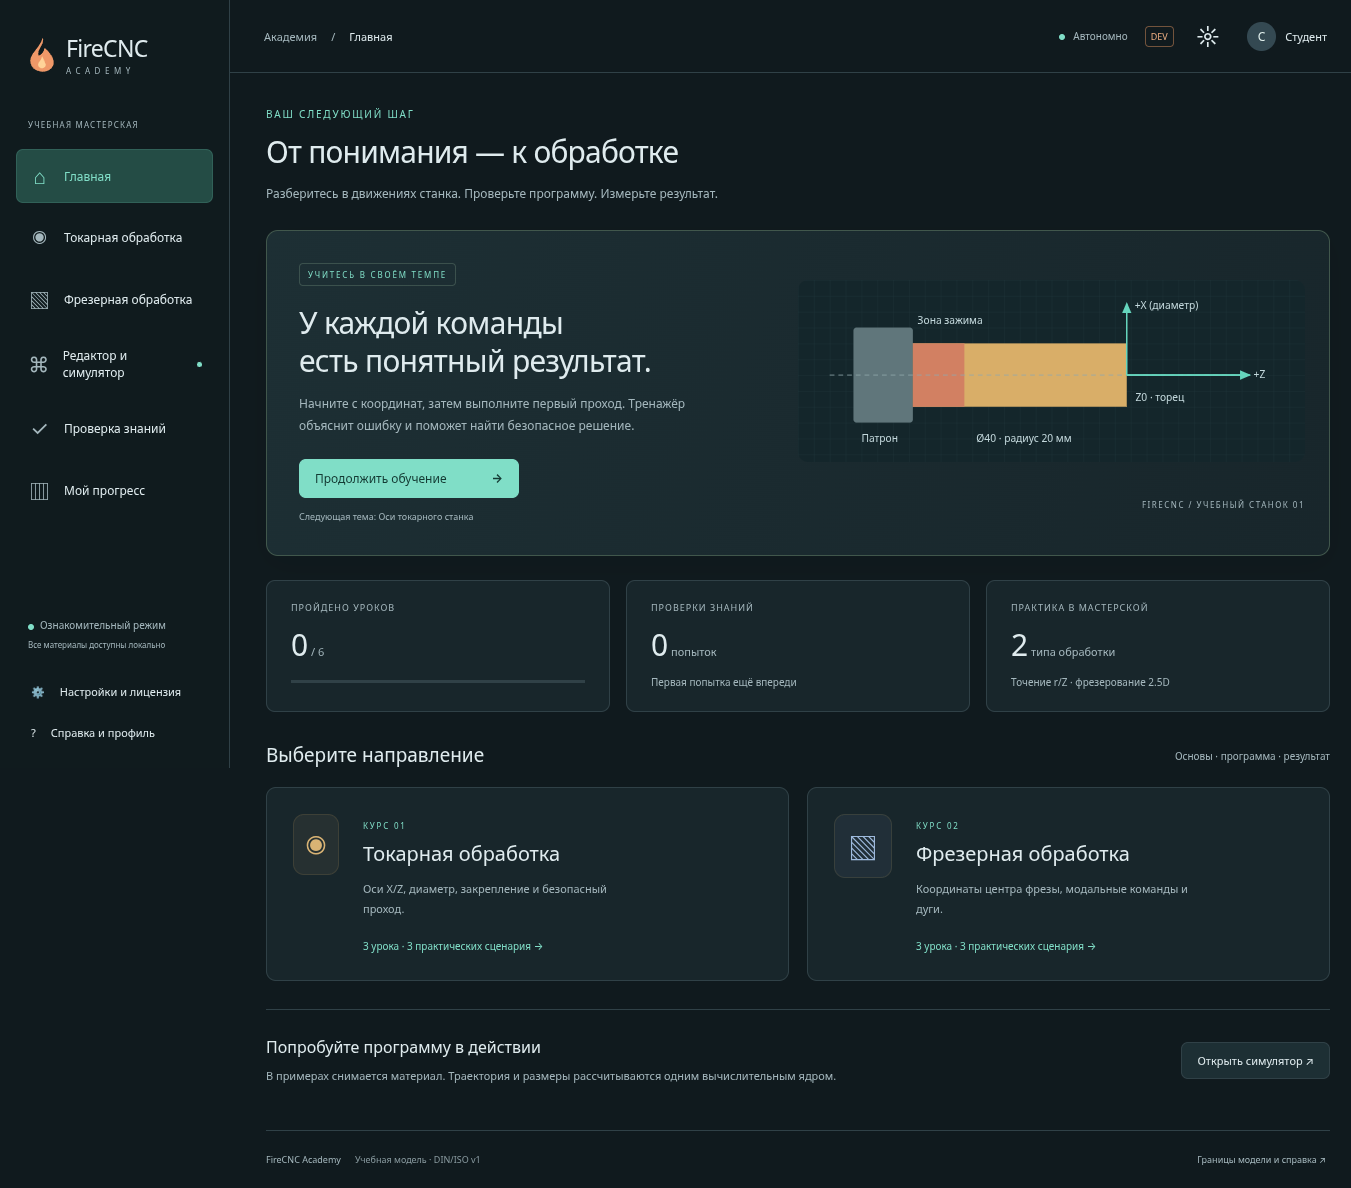
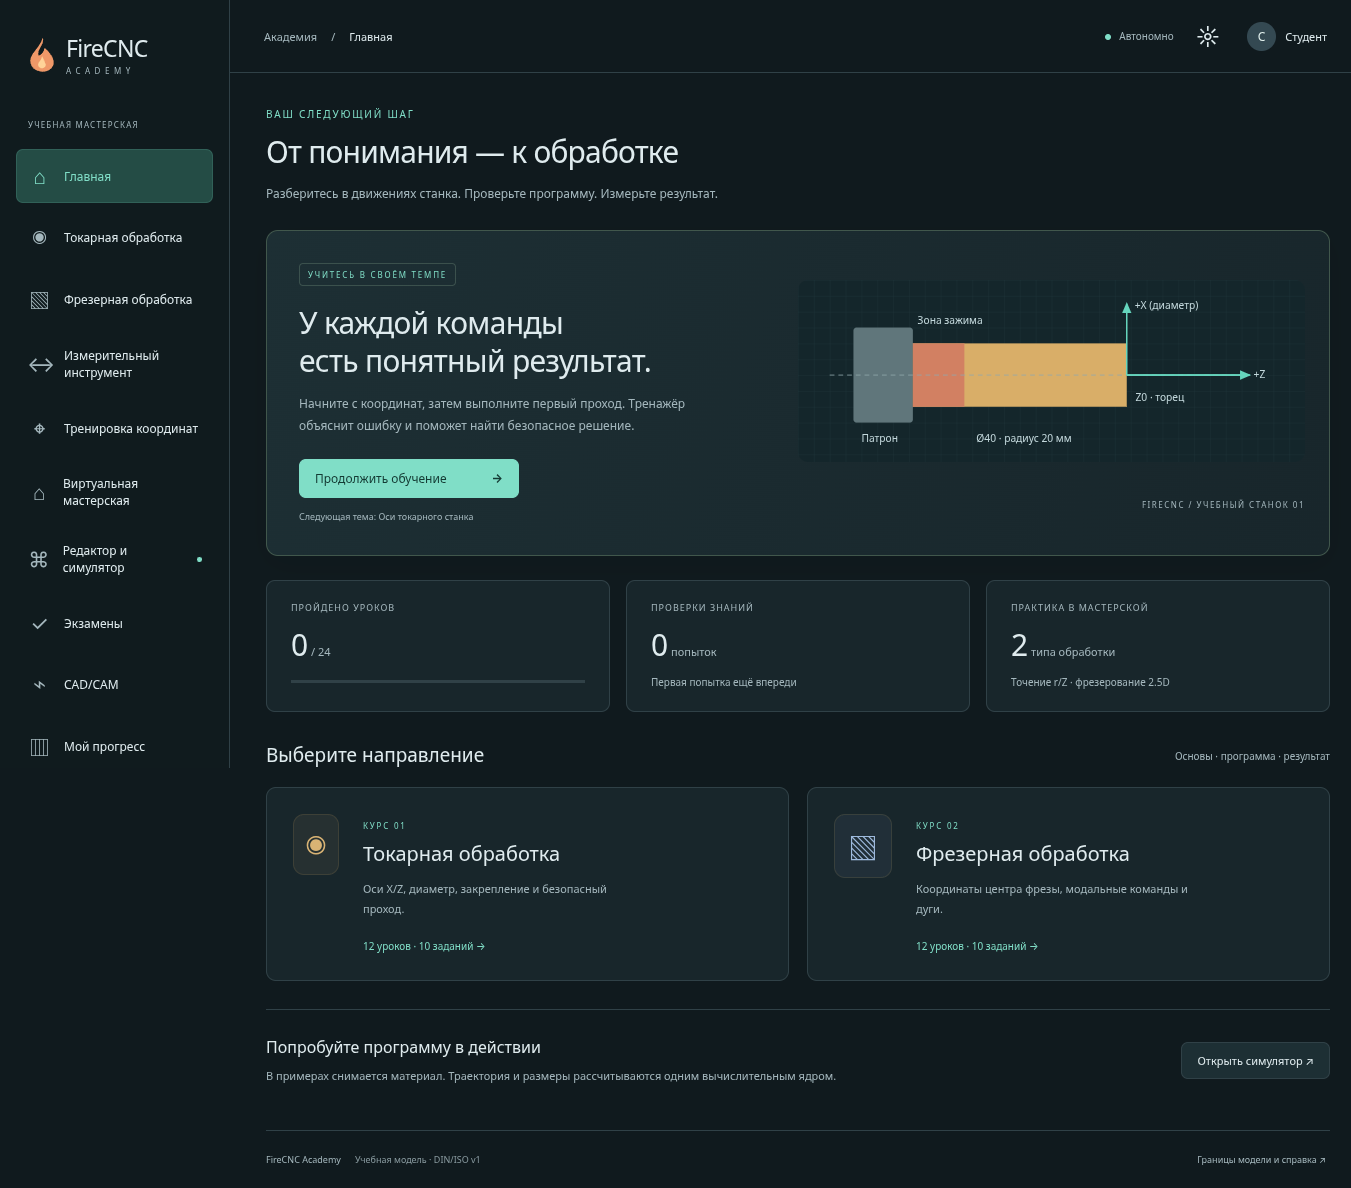
Record 0.3.0 platform acceptance and preserved Omarchy upgrade

diff --git a/ACCEPTANCE.md b/ACCEPTANCE.md
@@ -1,0 +1,24 @@
+# Приёмка 0.3.0
+
+15 ноября 2026. Таблица относится к работающему учебному профилю FireCNC DIN v1, а не к промышленной эмуляции. Полный объём A–F не объявляется выполненным: ручная Windows 11/DPI и расширения CAD/CAM остаются открытыми.
+
+| № из раздела 23 задания | Состояние | Подтверждение / предел |
+|---|---|---|
+| 1. Установка и запуск на заявленной платформе | Частично | Omarchy 0.3.0-1 установлен и запущен нативно в Wayland. Windows Server 2025 прошёл установщик/переустановку/удаление/portable в текущем CI; ручной Windows 11 пока нет. |
+| 2. Урок → тест → перезапуск → прогресс | Проверено | Полный Electron E2E; после настоящего обновления сохранены три отметки, контрольная попытка и экзамен пользователя. |
+| 3. Выпуск лицензии и открытие модулей | Проверено | Owner CLI issue/verify, импорт рабочим release с открытым ключом владельца, все семь модулей и автономный CAM в отдельном временном профиле. |
+| 4. Отказ подделке, отсутствие секрета в клиенте | Проверено | Ed25519/строгая схема, испорченный payload отклонён без замены лицензии. Проверка содержимого ASAR и публикационного списка. |
+| 5. Токарный материал и размер | Проверено | Реальный r/Z-съём, Ø30 на Z−15; аналитические цилиндр/кольцо/канавка и вся целевая форма. |
+| 6. Фрезерный материал | Проверено | Поле высот, глубина 3 мм, паз/карман/плоскость/контур; независимые площадь/объём и вся целевая форма. |
+| 7. Опасный сценарий | Проверено | Патрон/тиски/держатель/быстрый ход/шпиндель/направление/пределы; атомарный откат кадра с объяснением строки. Дискретная проверка имеет заявленный предел. |
+| 8. Воспроизводимый экзамен | Проверено | Восемь типов, снимок вопроса/порядка/ответа, seed, таймер, перезапуск, разбор и PDF после завершения. |
+| 9. Свой пакет преподавателя | Проверено | Пароль scrypt, вопрос/тест/геометрическое задание, экспорт/импорт, пересчёт примера, транзакционный отказ повреждению/конфликту ID. |
+| 10. Серверный ключ и лимит мест | Проверено | Настоящие HTTP-запросы: Lab, одно место при конкуренции, идемпотентность, lease, renew/revoke/deactivate/reset. Отзыв действует на продление, не сокращает старый автономный срок. |
+| 11. Базовый CAD/CAM и независимый эталон | Проверено в заявленных пределах | Четыре операции; общий интерпретатор/материал плюс независимые цель/формула объёма. Одна операция и стандартная заготовка; произвольные криволинейные CAM-профили и несколько операций ещё не готовы. |
+| 12. Автономная работа | Проверено | Electron E2E и настоящий release без сети; локальные assets/шрифты/Workers, действующие offline/lease не требуют сервера. |
+| 13. Данные при обновлении и резервирование | Проверено на Linux и Windows Server | SQLite Backup API, миграции v0→v6, восстановление с защитной копией, повреждённый импорт без потери; настоящее Omarchy-обновление сохраняет ID/лицензию/профили/все счётчики. |
+| 14. Явная граница профилей | Проверено | CNC_PROFILE.md и SIMULATION_LIMITS.md, справка в UI; неизвестный G/M останавливает кадр, промышленные профили не показываются готовыми. |
+
+Выпуск [v0.3.0](https://github.com/Hunt3rSmile/firecnc-academy/releases/tag/v0.3.0), проверенный код 62a35c6: [успешный Windows/Linux CI 43696992754](https://github.com/Hunt3rSmile/firecnc-academy/actions/runs/43696992754). На каждой платформе — 189 unit и 15 Electron E2E; пакетные сценарии также прошли.
+
+Точные команды, результаты CI, замеры и ещё не выполненные испытания — TESTING.md. Дальнейшая задача и ограничения — STATUS.md/ROADMAP.md. Локальный экзамен не заявляется защищённой серверной аттестацией.

diff --git a/README.md b/README.md
@@ -6,7 +6,9 @@
 
 Автономное настольное приложение для изучения ЧПУ на русском языке. Electron + React + TypeScript; вычислительное ядро работает отдельно от интерфейса. Собственный учебный DIN/ISO, без управления реальным оборудованием.
 
-**Рабочая версия 0.3.0; полный объём A–F ещё проходит приёмку.** Есть 24 собственных урока, 120 разных вопросов, 20 практических заданий с независимой оценкой полной геометрии, G90/G91 по точкам, измерительные приборы, воспроизводимые экзамены с таймером/разбором/PDF, интерактивная наладка и вращение заготовки/фрезы. Офлайн-лицензии, режим преподавателя, учебные пакеты, отдельный сервер коротких ключей, CAD/CAM четырёх операций и мастер восстановления БД работают. Ограничения и оставшаяся приёмка — [STATUS.md](STATUS.md). Последний опубликованный релиз может отставать от рабочей ветки.
+**Рабочая версия 0.3.0; полный объём A–F ещё проходит приёмку.** Есть 24 собственных урока, 120 разных вопросов, 20 практических заданий с независимой оценкой полной геометрии, G90/G91 по точкам, измерительные приборы, воспроизводимые экзамены с таймером/разбором/PDF, интерактивная наладка и вращение заготовки/фрезы. Офлайн-лицензии, режим преподавателя, учебные пакеты, отдельный сервер коротких ключей, CAD/CAM четырёх операций и мастер восстановления БД работают. Ограничения и оставшаяся приёмка — [STATUS.md](STATUS.md), таблица 14 критериев — [ACCEPTANCE.md](ACCEPTANCE.md). [Релиз 0.3.0](https://github.com/Hunt3rSmile/firecnc-academy/releases/tag/v0.3.0) прошёл [Windows/Linux CI](https://github.com/Hunt3rSmile/firecnc-academy/actions/runs/43696992754): 189 unit и 15 Electron E2E на каждой платформе плюс проверку настоящих пакетов.
+
+[Посмотреть рабочую область симулятора](docs/screenshots/simulator.png)
 
 ## Быстрый старт разработчика
 

diff --git a/ROADMAP.md b/ROADMAP.md
@@ -4,7 +4,7 @@
 
 E: работают преподаватель, профили, версии учебных пакетов, отдельный сервер коротких ключей и базовый CAD/CAM. Четыре CAM-операции используют тот же интерпретатор/симулятор и независимые аналитические эталоны. Контур редактируется отрезками/дугами, но CAM точения пока принимает только монотонные линейные профили; одна операция и стандартная заготовка на документ. Следующее функциональное расширение E — последовательность нескольких операций с явным порядком и промежуточным материалом.
 
-F, текущая задача: закончить актуальный Windows-2025/Ubuntu-22.04 CI, проверить NSIS и portable/AppImage, опубликовать 0.3.0, обновить Omarchy с сохранением идентификатора/лицензии/данных. Резервирование, проверяемый мастер восстановления с защитной копией и экспорт диагностики уже реализованы. Проведён 60-цикловый замер памяти настоящей Linux-сборки; он не заменяет длительный тест.
+F: [CI 43696992754](https://github.com/Hunt3rSmile/firecnc-academy/actions/runs/43696992754) прошёл Windows-2025/Ubuntu-22.04, включая 189 unit +15 Electron E2E на каждой платформе, NSIS и portable/AppImage. Релиз 0.3.0 опубликован. Omarchy обновлён 0.2.0-1→0.3.0-1, идентификатор/лицензия/профили/все счётчики сохранились; фактический запрос обновлений видит новый релиз. Резервирование, проверяемый мастер восстановления с защитной копией и экспорт диагностики уже реализованы. Проведён 60-цикловый замер памяти настоящей Linux-сборки; он не заменяет длительный тест.
 
 Оставшаяся ручная приёмка: Windows 11, настоящий DPI 125–150%, чистая установка на учебном ПК и несколько GPU, длительный прогон, Linux AppImage через FUSE. Реальный сертификат Authenticode предоставляет владелец; неподписанные файлы не называть подписанными.
 
